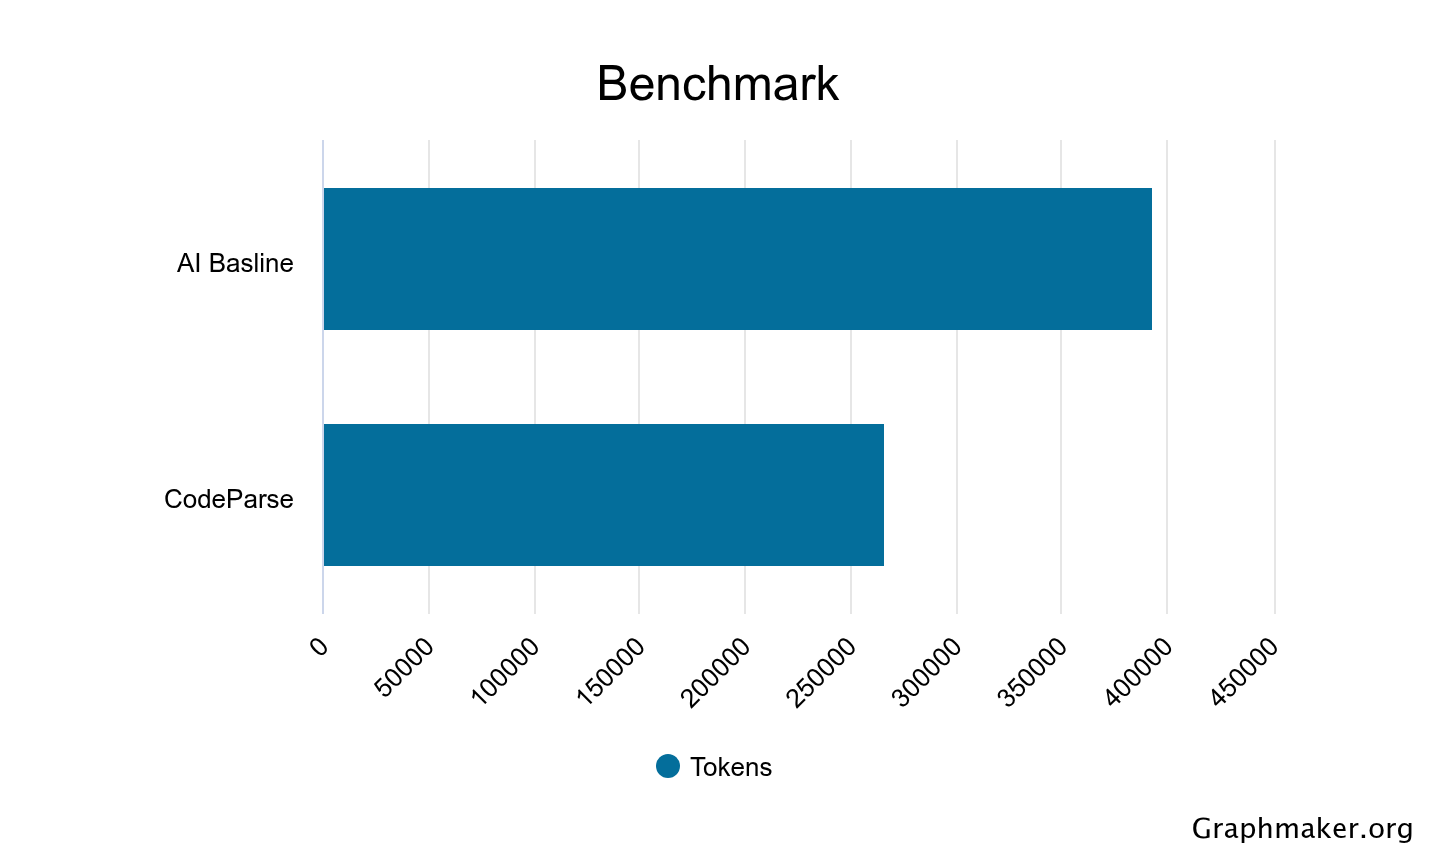
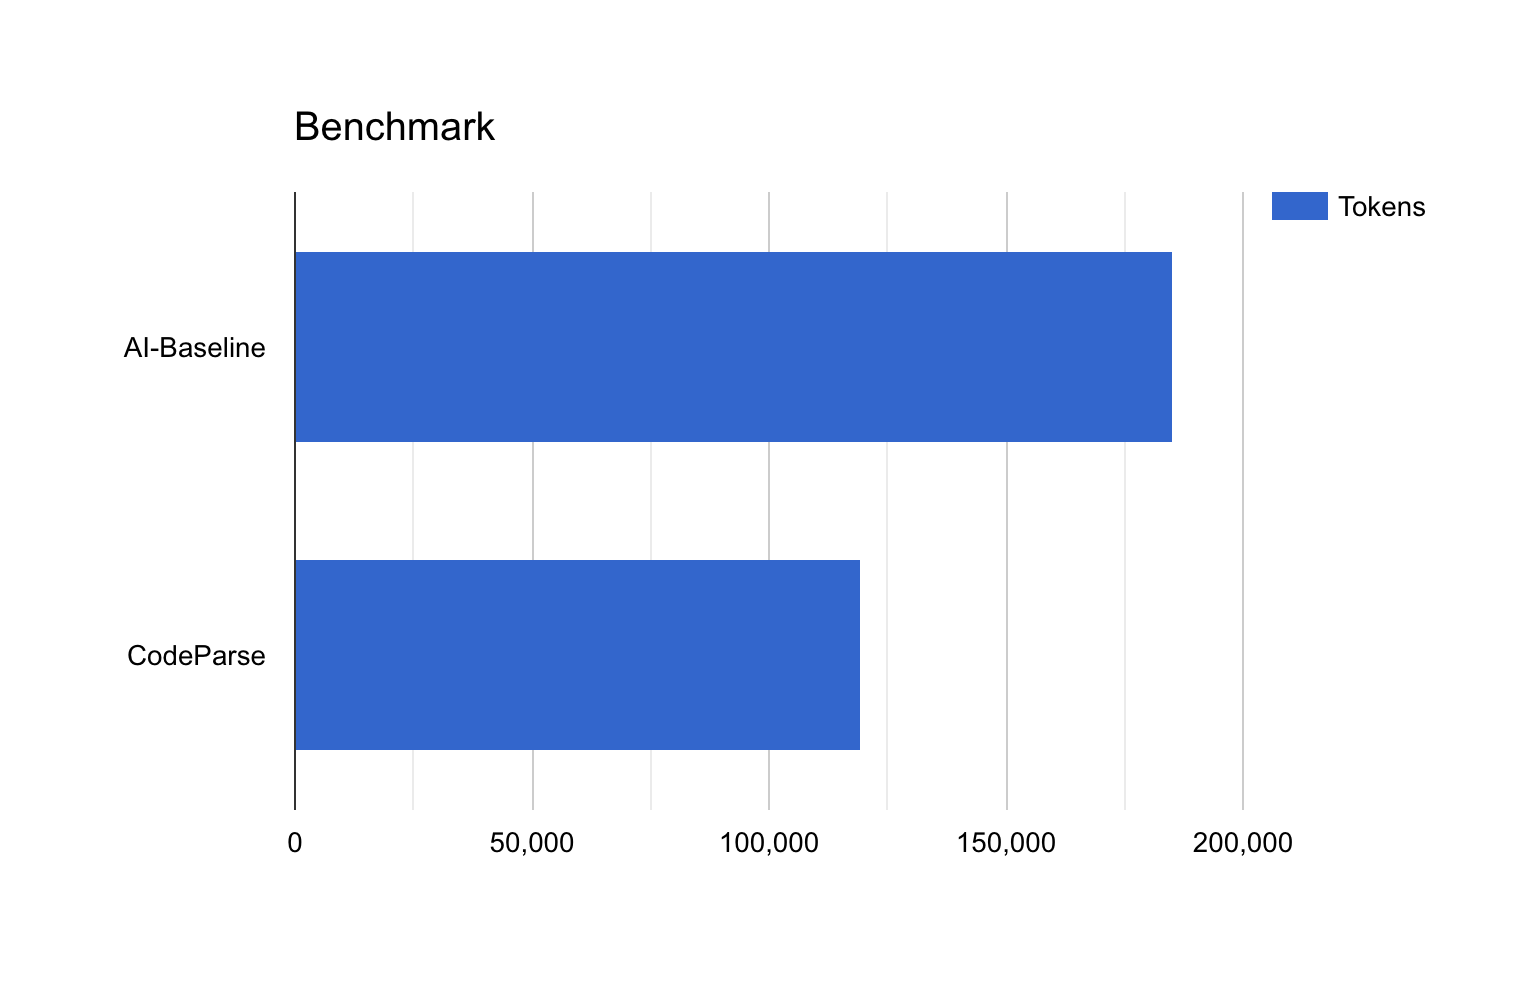
update eval results

diff --git a/README.md b/README.md
@@ -58,7 +58,7 @@ Ten questions found in `eval/tasks.json` are evaluated against the [SQLMesh](htt
 
 | Model | Baseline Avg Tokens | CodeParse Avg Tokens | Token Reduction |
 | --- | --- | --- | --- |
-| Grok 4.7 High Fast | 393,530 | 265,867 | -32% |
+| Grok 4.7 High Fast | 185,371 | 119,572 | -35% |
 | Opus 5.5 Medium | ... | ... | ... |
 
 
